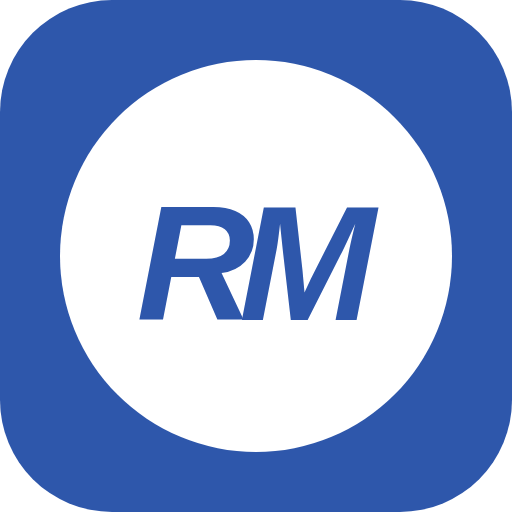
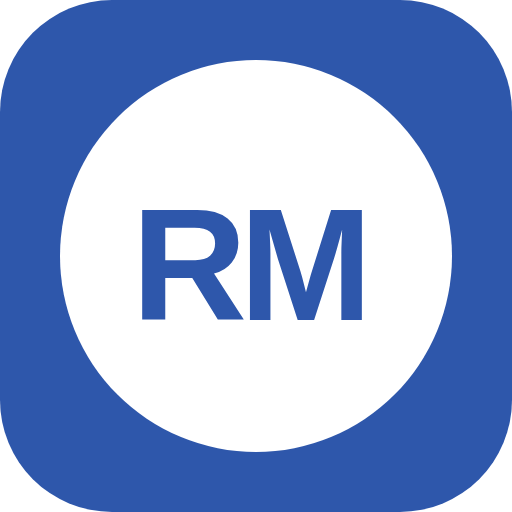
No italics: upright monogram, tagline and UI notes throughout
Claude-Session: https://claude.ai/code/session_01R3Sg2moHDuvCNDpY6gq8E7

Changed region(s): [[0.25, 0.4062, 0.75, 0.625], [0.4062, 0.5938, 0.4375, 0.625]]

diff --git a/src/ui/theme.css b/src/ui/theme.css
@@ -562,7 +562,7 @@ input, select { font: inherit; }
   font-family: var(--sans);
   font-size: 16px;
   font-weight: 700;
-  font-style: italic;
+ 
   color: var(--ink);
   padding: 4px 16px 12px;
   line-height: 1.5;
@@ -593,7 +593,7 @@ input, select { font: inherit; }
   text-shadow: 0 2px 20px rgba(159, 194, 232, .3);
   letter-spacing: 4px;
 }
-.title-screen .tagline { font-family: var(--serif); font-style: italic; font-weight: 700; color: var(--green-100); margin-top: 8px; font-size: 15px; }
+.title-screen .tagline { font-family: var(--serif); font-weight: 700; color: var(--green-100); margin-top: 8px; font-size: 15px; }
 .title-screen .menu-btns { margin-top: 38px; display: flex; flex-direction: column; gap: 12px; width: 100%; max-width: 300px; }
 
 /* ================= Misc ================= */
@@ -858,7 +858,7 @@ input, select { font: inherit; }
   font-size: 14px; line-height: 1.6;
 }
 .tut-box h3 { font-family: var(--sans); font-size: 17px; font-weight: 700; color: var(--gold-bright); margin-bottom: 8px; }
-.tut-box .muted { color: #9fb2a7; font-style: italic; margin-top: 12px; }
+.tut-box .muted { color: #9fb2a7; margin-top: 12px; }
 
 /* floodlit toggle in masthead */
 .night-btn {

diff --git a/src/ui/screens/Jobs.tsx b/src/ui/screens/Jobs.tsx
@@ -27,7 +27,7 @@ export default function Jobs() {
           {' '}{game.mgr.m ? Math.round((game.mgr.w / game.mgr.m) * 100) : 0}% won, {game.mgr.trophies.length} troph{game.mgr.trophies.length === 1 ? 'y' : 'ies'}.
         </div>
         {game.unemployed && (
-          <div className="meta" style={{ marginTop: 4, fontStyle: 'italic' }}>
+          <div className="meta" style={{ marginTop: 4 }}>
             Press Continue to let the weeks pass — boards lose patience with strugglers, and new vacancies appear.
           </div>
         )}
@@ -37,7 +37,7 @@ export default function Jobs() {
 
       <SectionTitle sub={`${vacancies.length} open`}>Vacancies</SectionTitle>
       {vacancies.length === 0 && (
-        <div className="muted" style={{ padding: '4px 16px 12px', fontStyle: 'italic' }}>
+        <div className="muted" style={{ padding: '4px 16px 12px' }}>
           Nothing open this week. Somebody is always one bad month from the sack — check back after a few Continues.
         </div>
       )}

diff --git a/src/ui/screens/MatchDay.tsx b/src/ui/screens/MatchDay.tsx
@@ -673,7 +673,7 @@ function TouchlinePanel({ title, showTalk, onResume, resumeLabel }: {
           </div>
         </>
       ) : live.talkMsg && (
-        <div className="meta" style={{ fontStyle: 'italic', margin: '6px 0' }}>{live.talkMsg}</div>
+        <div className="meta" style={{ margin: '6px 0' }}>{live.talkMsg}</div>
       ))}
 
       <div className="fact-label" style={{ marginTop: 12 }}>Quick Game Plans</div>
@@ -697,7 +697,7 @@ function TouchlinePanel({ title, showTalk, onResume, resumeLabel }: {
             onChange={e => { club.tactic[s.key] = Number(e.target.value); liveTactics(); touch() }} />
         </div>
       ))}
-      {explain && <div className="meta" style={{ margin: '6px 0', fontStyle: 'italic' }}>{explain}</div>}
+      {explain && <div className="meta" style={{ margin: '6px 0' }}>{explain}</div>}
 
       <div className="fact-label" style={{ marginTop: 12 }}>Substitution ({5 - ctx.subsUsed} left)</div>
       <div style={{ display: 'flex', gap: 8, marginTop: 6 }}>

diff --git a/src/ui/screens/Press.tsx b/src/ui/screens/Press.tsx
@@ -13,7 +13,7 @@ export default function Press() {
   return (
     <>
       {open.length === 0 && (
-        <div className="muted" style={{ padding: 14, fontStyle: 'italic' }}>
+        <div className="muted" style={{ padding: 14 }}>
           The press room is quiet… for now. Journalists tend to appear when players hit form, lose it, or get linked with moves.
         </div>
       )}
@@ -44,7 +44,7 @@ export default function Press() {
           {past.map(item => (
             <div key={item.id} className="news-item open">
               <div className="when">{item.outlet} · {weekDate(item.season, item.week)}</div>
-              <div className="subj" style={{ fontStyle: 'italic', fontWeight: 400 }}>“{item.question}”</div>
+              <div className="subj" style={{ fontWeight: 400 }}>“{item.question}”</div>
               <div className="body">You: “{item.answerLabel}” — {item.reaction}</div>
             </div>
           ))}

diff --git a/src/ui/screens/Home.tsx b/src/ui/screens/Home.tsx
@@ -111,7 +111,7 @@ export default function Home() {
             {game.clubs[fx.homeId]?.stadium ?? 'Neutral venue'} · {weekDate(game.season, fx.week)}
             {fx.homeId === club.id ? ' · Home' : ' · Away'}
           </div>
-          <div className="muted" style={{ marginTop: 6, fontStyle: 'italic' }}>
+          <div className="muted" style={{ marginTop: 6 }}>
             {isThisWeek
               ? 'Tap to set your team, then press Continue to play.'
               : 'No match this week — Continue advances to the next round.'}

diff --git a/src/ui/screens/Tactics.tsx b/src/ui/screens/Tactics.tsx
@@ -114,7 +114,7 @@ export default function Tactics() {
         }}>Auto-Pick Best XV</button>
       </div>
       <div className="card" style={{ marginTop: 4, borderLeft: '4px solid var(--gold)' }}>
-        <div className="meta" style={{ fontStyle: 'italic' }}>{assistantAdvice(game)}</div>
+        <div className="meta" style={{  }}>{assistantAdvice(game)}</div>
       </div>
       <div className="card" style={{ display: 'flex', alignItems: 'center', gap: 10 }}>
         <span style={{ fontSize: 18 }}>©</span>

diff --git a/src/ui/screens/Legacy.tsx b/src/ui/screens/Legacy.tsx
@@ -35,7 +35,7 @@ export default function Legacy() {
 
       <SectionTitle sub={m.trophies.length ? undefined : 'the cabinet awaits'}>Trophy Cabinet</SectionTitle>
       {m.trophies.length === 0 ? (
-        <div className="muted" style={{ padding: '4px 16px 12px', fontStyle: 'italic' }}>
+        <div className="muted" style={{ padding: '4px 16px 12px' }}>
           Empty shelves and big dreams. Win something.
         </div>
       ) : (

diff --git a/src/ui/screens/TeamReport.tsx b/src/ui/screens/TeamReport.tsx
@@ -48,7 +48,7 @@ export default function TeamReport() {
     <>
       <div className="card" style={{ borderLeft: '4px solid var(--gold)' }}>
         <h3 style={{ fontSize: 14 }}>The Assistant's Verdict</h3>
-        <div className="meta" style={{ fontStyle: 'italic' }}>{assistantAdvice(game)}</div>
+        <div className="meta" style={{  }}>{assistantAdvice(game)}</div>
       </div>
 
       <SectionTitle>Where We Stand</SectionTitle>

diff --git a/src/ui/components.tsx b/src/ui/components.tsx
@@ -14,7 +14,7 @@ export function BrandMark({ size = 64, inverse = false }: { size?: number; inver
       <text
         x="31" y="42.5" textAnchor="middle"
         fontFamily="'Montserrat', 'Segoe UI', sans-serif"
-        fontWeight="800" fontStyle="italic" fontSize="27" letterSpacing="-2.5"
+        fontWeight="800" fontSize="26" letterSpacing="-1"
         fill={fg}
       >RM</text>
     </svg>

diff --git a/src/ui/screens/History.tsx b/src/ui/screens/History.tsx
@@ -10,7 +10,7 @@ export default function History() {
     <>
       <SectionTitle sub="champions of your era">Roll of Honour</SectionTitle>
       {rows.length === 0 && (
-        <div className="muted" style={{ padding: 14, fontStyle: 'italic' }}>
+        <div className="muted" style={{ padding: 14 }}>
           No trophies decided yet. History is written in May.
         </div>
       )}

diff --git a/src/ui/screens/Menu.tsx b/src/ui/screens/Menu.tsx
@@ -45,7 +45,7 @@ export default function Menu() {
           </div>
         ))}
       </div>
-      <div style={{ marginTop: 40, fontSize: 11, opacity: .65, fontStyle: 'italic', fontFamily: 'Georgia, serif' }}>
+      <div style={{ marginTop: 40, fontSize: 11, opacity: .65 }}>
         A personal project — real names used for fun, not for sale.
       </div>
     </div>

diff --git a/src/main.tsx b/src/main.tsx
@@ -5,7 +5,6 @@ import '@fontsource/montserrat/400.css'
 import '@fontsource/montserrat/600.css'
 import '@fontsource/montserrat/700.css'
 import '@fontsource/montserrat/800.css'
-import '@fontsource/montserrat/800-italic.css'
 import './ui/theme.css'
 
 ReactDOM.createRoot(document.getElementById('root')!).render(
